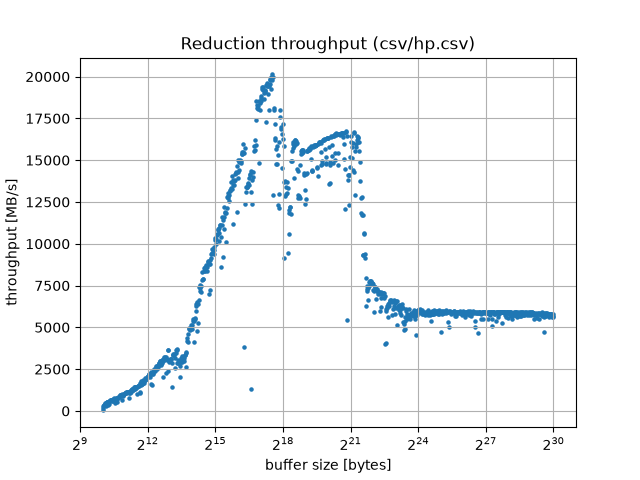
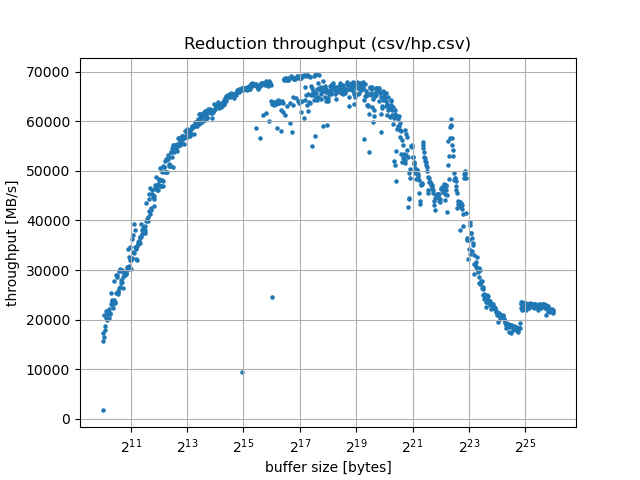
reductions: add png plots of new data

diff --git a/arch/reductions/plots.py b/arch/reductions/plots.py
@@ -2,13 +2,15 @@
 
 import numpy as np
 import pandas as pd
-import matplotlib.pyplot as plt
 import argparse
+import matplotlib.pyplot as plt
+from pathlib import Path
 
 
 if __name__ == '__main__':
     parser = argparse.ArgumentParser()
     parser.add_argument('input_csv', type=str)
+    parser.add_argument('--save-img', action='store_true')
     args = parser.parse_args()
 
     input_filename = args.input_csv
@@ -20,15 +22,26 @@ if __name__ == '__main__':
     throughput = buffer_size_bytes / runtime_s
     throughput_mb_s = throughput / (2**20)
 
-    plt.title(f'Reduction throughput ({input_filename})')
+    fig, ax = plt.subplots()
+
+    ax.set_title(f'Reduction throughput ({input_filename})')
     plt.scatter(
         buffer_size_bytes,
         throughput_mb_s,
         s=5
     )
-    plt.xscale('log', base=2)
-    plt.xlabel('buffer size [bytes]')
-    plt.ylabel('throughput [MB/s]')
-    plt.grid()
-    plt.show()
+    ax.set_xscale('log', base=2)
+    ax.set_xlabel('buffer size [bytes]')
+    ax.set_ylabel('throughput [MB/s]')
+    ax.grid()
+
+    if args.save_img:
+        FORMAT = 'png'
+        stem = Path(input_filename).stem
+        output_filename = f'{stem}.{FORMAT}'
+        fig.savefig(output_filename, format=FORMAT)
+
+        print(f'Saved plot to {output_filename}')
+    else:
+        plt.show()
 
